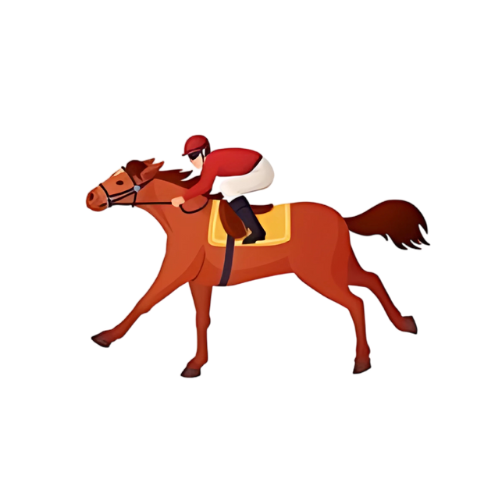
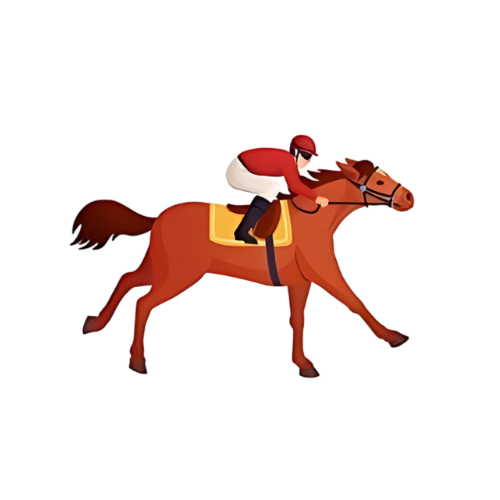
Refactor image loading and enhance horse rendering in gameplay

Changed region(s): [[0.12, 0.27, 0.87, 0.78]]

diff --git a/src/GameplayPanel.java b/src/GameplayPanel.java
@@ -19,7 +19,7 @@ public class GameplayPanel extends JPanel implements Runnable {
         this.horses = race.getRunners(); // Ambil daftar kuda
 
         // Load gambar background
-        ImageIcon icon = new ImageIcon("C:/Users/gusbr/OneDrive/Gambar/Cool Yeah/Semester 5/PBO/Praktikum/Project/inside-track/assets/img/background.png");
+        ImageIcon icon = new ImageIcon("assets/img/background.png");
         backgroundImage = icon.getImage();
     }
 
@@ -36,15 +36,25 @@ public class GameplayPanel extends JPanel implements Runnable {
             g.drawImage(backgroundImage, xPosition + panelWidth, 0, panelWidth, panelHeight, null);
         }
 
-        // Gambar kuda-kuda dan jaraknya
+        // Looping gambar kuda
+        int frameCount = 12; // Jumlah frame gambar kuda
+        int frameIndex = (int) ((System.currentTimeMillis() / 50) % frameCount); // Hitung frame index berdasarkan waktu
+
         for (Horse horse : horses) {
             int horseX = (int) (horse.getDistance() * getWidth() / Race.RACE_LENGTH);
-            int horseY = 220 + horses.indexOf(horse) * 60; // Atur Y berdasarkan nomor kuda
-            g.setColor(Color.RED); // Gambar kuda dengan warna merah
-            g.fillOval(horseX, horseY, 30, 30); // Gambar kuda sebagai lingkaran
-            // Menampilkan jarak kuda
-            g.setColor(Color.BLACK);
-            g.drawString(horse.getDistance() + " m", horseX, horseY - 10); // Menampilkan jarak kuda di atasnya
+            int horseY = 140 + horses.indexOf(horse) * 60; // Atur Y berdasarkan nomor kuda
+
+            // Load gambar kuda berdasarkan frame index
+            ImageIcon horseIcon = new ImageIcon("./assets/horse-running/horse/" + (frameIndex + 1) + ".png");
+            Image horseImage = horseIcon.getImage();
+
+            // Gambar kuda sebagai gambar
+            g.drawImage(horseImage, horseX, horseY, 150, 150, null);
+
+            // Hentikan loop jika kuda pertama sudah mencapai akhir frame
+            if (horses.get(0).getDistance() >= Race.RACE_LENGTH) {
+                raceFinished = true;
+            }
         }
     }
 

diff --git a/src/HorseRacingGame.java b/src/HorseRacingGame.java
@@ -8,14 +8,14 @@ public class HorseRacingGame extends JFrame {
         setDefaultCloseOperation(JFrame.EXIT_ON_CLOSE);
 
         // Membuat objek Race
-        Race race = new Race();  
+        Race race = new Race();
 
         // Main panel menggunakan CardLayout untuk mengganti tampilan
         JPanel mainPanel = new JPanel(new CardLayout());
         add(mainPanel);
 
         // Membuat panel untuk LandingPage dan Gameplay
-        GameplayPanel gameplayPanel = new GameplayPanel(race);  
+        GameplayPanel gameplayPanel = new GameplayPanel(race);
         LandingPage landingPage = new LandingPage(mainPanel, gameplayPanel);
 
         // Menambahkan panel-panel ke dalam mainPanel
